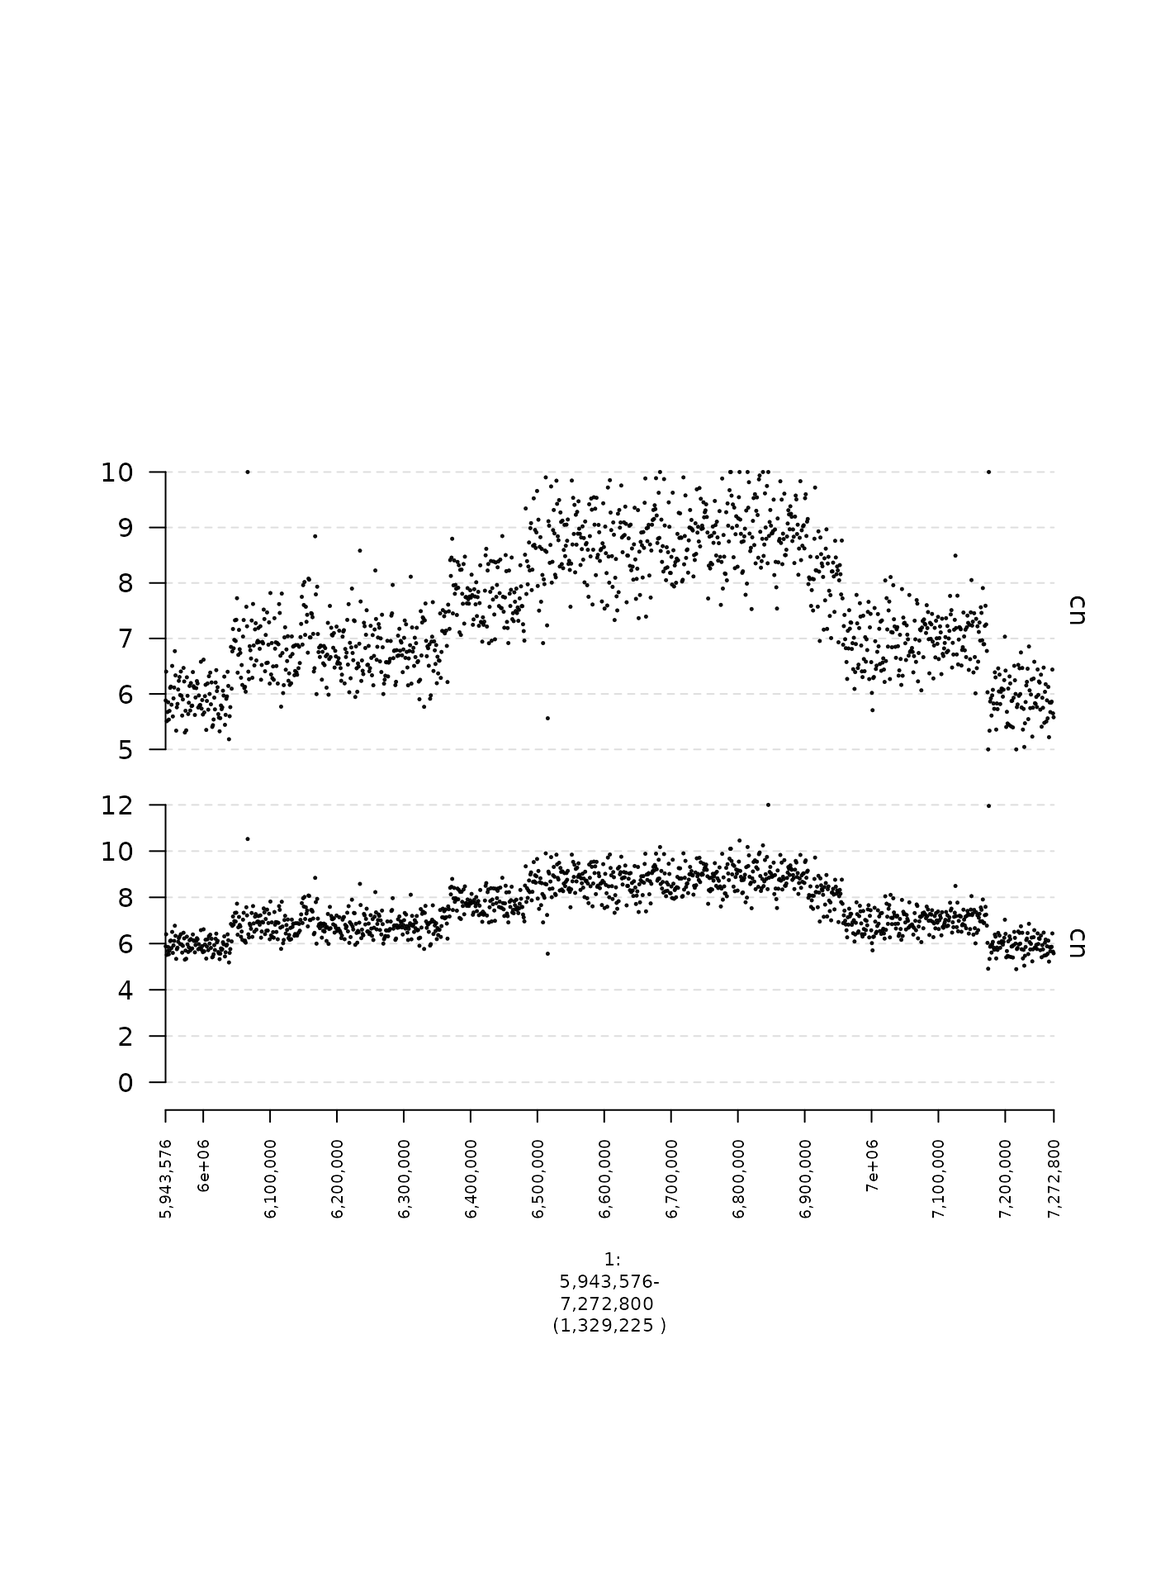
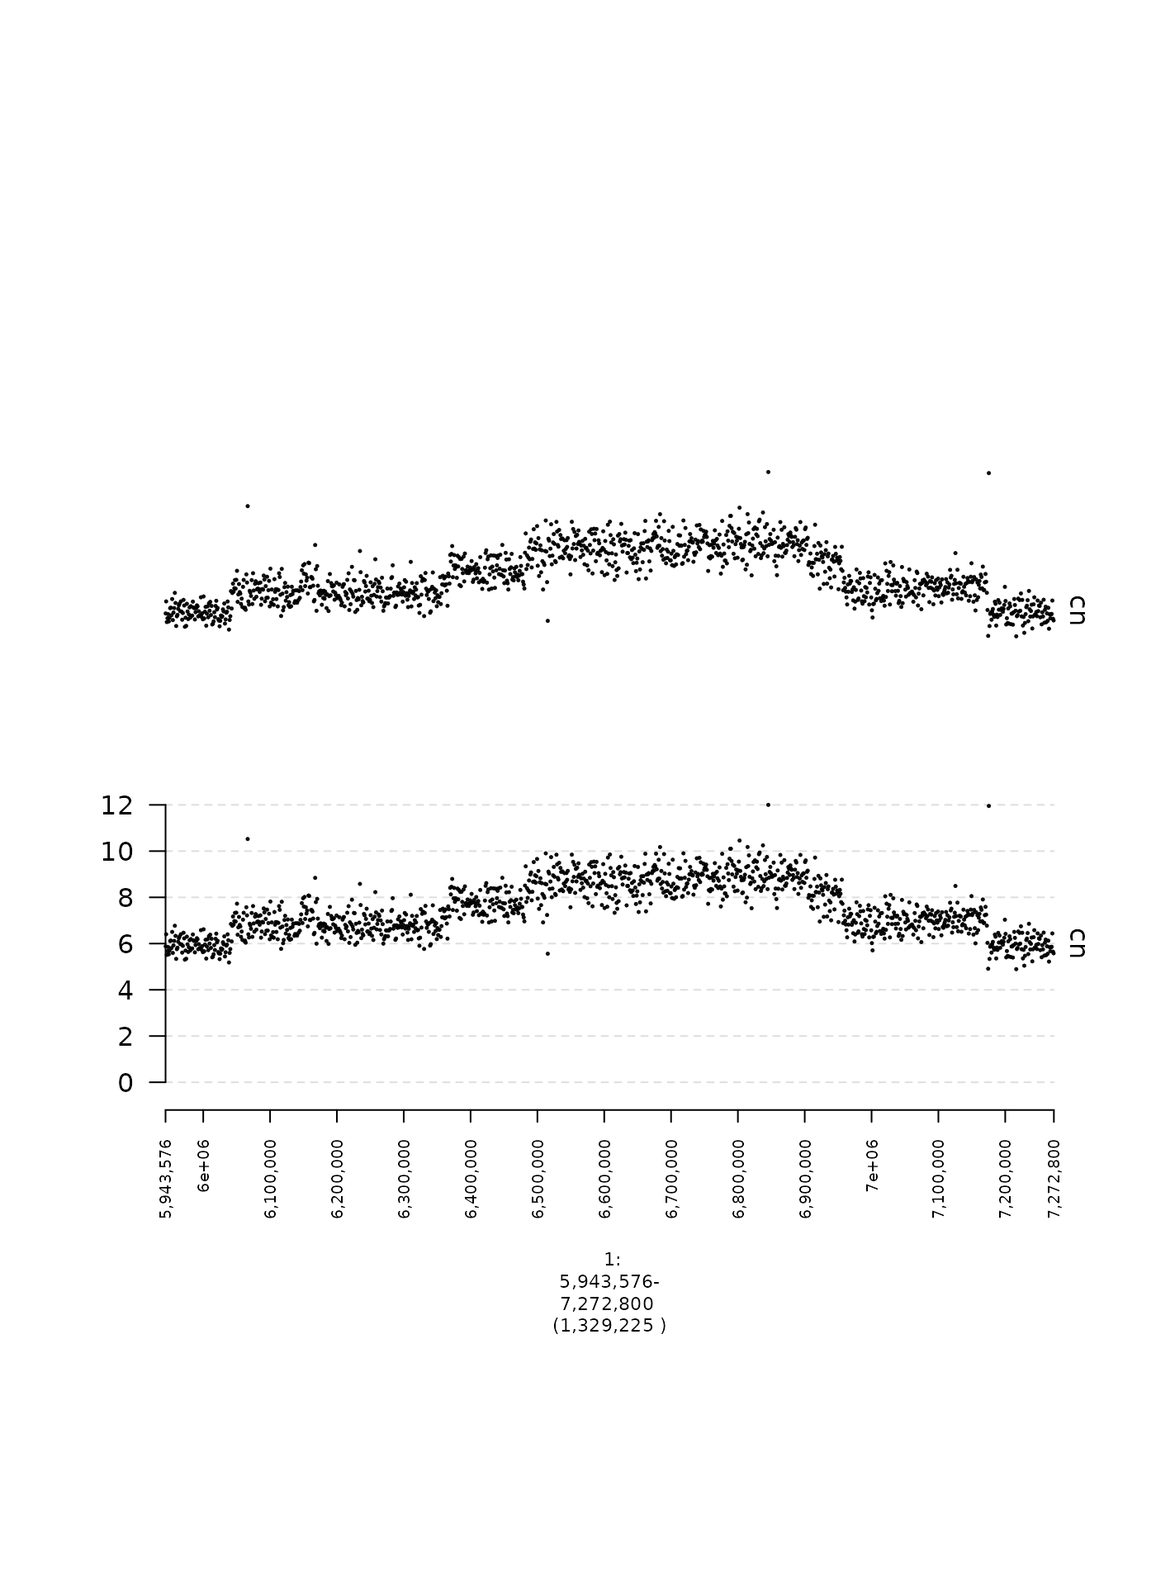
update params docs

Changed region(s): [[0.1229, 0.3125, 0.9214, 0.4688], [0.0921, 0.2812, 0.1229, 0.3125]]

diff --git a/docs/articles/gtrackparams.html b/docs/articles/gtrackparams.html
@@ -93,13 +93,31 @@
     
 <p>This is a (non-comprehensive) overview of <code>gTrack</code> parameters that are commonly modified from their default values.</p>
 <div class="section level2">
-<h2 id="axes">Axes<a class="anchor" aria-label="anchor" href="#axes"></a>
+<h2 id="axes-and-data">Axes and data<a class="anchor" aria-label="anchor" href="#axes-and-data"></a>
 </h2>
+<div class="section level3">
+<h3 id="y-coordinates-y-field">Y-coordinates (y.field)<a class="anchor" aria-label="anchor" href="#y-coordinates-y-field"></a>
+</h3>
+<p>The x-coordinate of <code>gTrack</code> data is always a genomic interval. The y-coordinate can be either unspecified, or supplied in a metadata column of the <code>GRanges</code> or <code>GRangesList</code>. The name of this metadata column can be specified by supplying a character string to argument for <code>y.field</code>.</p>
+<p>In the following example, we will plot two different metadata fields, one named <code>foreground</code> and one named <code>cn</code>.</p>
+<div class="sourceCode" id="cb1"><pre class="downlit sourceCode r">
+<code class="sourceCode R"><span><span class="va">coverage.gr</span> <span class="op">=</span> <span class="fu"><a href="https://rdrr.io/r/base/readRDS.html" class="external-link">readRDS</a></span><span class="op">(</span><span class="fu"><a href="https://rdrr.io/r/base/system.file.html" class="external-link">system.file</a></span><span class="op">(</span><span class="st">"extdata"</span>, <span class="st">"ovcar.subgraph.coverage.rds"</span>, package <span class="op">=</span> <span class="st">"gTrack"</span><span class="op">)</span><span class="op">)</span></span>
+<span></span>
+<span><span class="co">## read depth gTrack without name argument</span></span>
+<span><span class="va">coverage.cn.gt</span> <span class="op">=</span> <span class="fu"><a href="../reference/gTrack-class.html">gTrack</a></span><span class="op">(</span><span class="va">coverage.gr</span>, y.field <span class="op">=</span> <span class="st">"cn"</span>, circles <span class="op">=</span> <span class="cn">TRUE</span>, lwd.border <span class="op">=</span> <span class="fl">0.2</span>, y0 <span class="op">=</span> <span class="fl">0</span>, y1 <span class="op">=</span> <span class="fl">12</span><span class="op">)</span></span>
+<span></span>
+<span><span class="co">## read depth gTrack with name argument</span></span>
+<span><span class="va">coverage.foreground.gt</span> <span class="op">=</span> <span class="fu"><a href="../reference/gTrack-class.html">gTrack</a></span><span class="op">(</span><span class="va">coverage.gr</span>, y.field <span class="op">=</span> <span class="st">"foreground"</span>, circles <span class="op">=</span> <span class="cn">TRUE</span>, lwd.border <span class="op">=</span> <span class="fl">0.2</span>, y0 <span class="op">=</span> <span class="fl">0</span>, y1 <span class="op">=</span> <span class="fl">12</span><span class="op">)</span></span>
+<span></span>
+<span><span class="va">fp</span> <span class="op">=</span> <span class="fu">parse.gr</span><span class="op">(</span><span class="st">"1:6043576-7172800"</span><span class="op">)</span></span>
+<span><span class="fu"><a href="https://rdrr.io/r/graphics/plot.default.html" class="external-link">plot</a></span><span class="op">(</span><span class="fu"><a href="../reference/c-methods.html">c</a></span><span class="op">(</span><span class="va">coverage.cn.gt</span>, <span class="va">coverage.foreground.gt</span><span class="op">)</span>, <span class="va">fp</span> <span class="op">+</span> <span class="fl">1e5</span><span class="op">)</span></span></code></pre></div>
+<p><img src="gtrackparams_files/figure-html/unnamed-chunk-2-1.png" width="700"></p>
+</div>
 <div class="section level3">
 <h3 id="track-names-name">Track names (name)<a class="anchor" aria-label="anchor" href="#track-names-name"></a>
 </h3>
-<p>The <code>name</code> specifies the track label that is shown to the right of a subplot. Arguments must be character vectors. The default is an empty string, which creates an unlabeled plot. Below is an example of a scatter plot with and without a <code>name</code> argument.</p>
-<div class="sourceCode" id="cb1"><pre class="downlit sourceCode r">
+<p>The <code>name</code> specifies the track label that is shown to the right of a subplot. Arguments must be character vectors. The default behavior is to set <code>name</code> to an empty string if <code>y.field</code> is not specified, and otherwise to set <code>name</code> to the value passed to <code>y.field</code>. Below is an example of a scatter plot with and without a <code>name</code> argument.</p>
+<div class="sourceCode" id="cb2"><pre class="downlit sourceCode r">
 <code class="sourceCode R"><span><span class="va">coverage.gr</span> <span class="op">=</span> <span class="fu"><a href="https://rdrr.io/r/base/readRDS.html" class="external-link">readRDS</a></span><span class="op">(</span><span class="fu"><a href="https://rdrr.io/r/base/system.file.html" class="external-link">system.file</a></span><span class="op">(</span><span class="st">"extdata"</span>, <span class="st">"ovcar.subgraph.coverage.rds"</span>, package <span class="op">=</span> <span class="st">"gTrack"</span><span class="op">)</span><span class="op">)</span></span>
 <span></span>
 <span><span class="co">## read depth gTrack without name argument</span></span>
@@ -110,13 +128,31 @@
 <span></span>
 <span><span class="va">fp</span> <span class="op">=</span> <span class="fu">parse.gr</span><span class="op">(</span><span class="st">"1:6043576-7172800"</span><span class="op">)</span></span>
 <span><span class="fu"><a href="https://rdrr.io/r/graphics/plot.default.html" class="external-link">plot</a></span><span class="op">(</span><span class="fu"><a href="../reference/c-methods.html">c</a></span><span class="op">(</span><span class="va">coverage.gt</span>, <span class="va">coverage.name.gt</span><span class="op">)</span>, <span class="va">fp</span> <span class="op">+</span> <span class="fl">1e5</span><span class="op">)</span></span></code></pre></div>
-<p><img src="gtrackparams_files/figure-html/unnamed-chunk-2-1.png" width="700"></p>
+<p><img src="gtrackparams_files/figure-html/unnamed-chunk-3-1.png" width="700"></p>
+</div>
+<div class="section level3">
+<h3 id="y-axis-label-yaxis">Y-axis label (yaxis)<a class="anchor" aria-label="anchor" href="#y-axis-label-yaxis"></a>
+</h3>
+<p>The label of the Y-axis on the left side of a <code>gTrack</code> can be toggled on or off using the logical parameter <code>yaxis</code>, which has default value <code>TRUE</code> if <code>y.field</code> is specified and <code>FALSE</code> if not.</p>
+<p>Here is an example where <code>yaxis</code> is deliberately set as <code>FALSE</code> despite suppling a value to <code>y.field</code>.</p>
+<div class="sourceCode" id="cb3"><pre class="downlit sourceCode r">
+<code class="sourceCode R"><span><span class="va">coverage.gr</span> <span class="op">=</span> <span class="fu"><a href="https://rdrr.io/r/base/readRDS.html" class="external-link">readRDS</a></span><span class="op">(</span><span class="fu"><a href="https://rdrr.io/r/base/system.file.html" class="external-link">system.file</a></span><span class="op">(</span><span class="st">"extdata"</span>, <span class="st">"ovcar.subgraph.coverage.rds"</span>, package <span class="op">=</span> <span class="st">"gTrack"</span><span class="op">)</span><span class="op">)</span></span>
+<span></span>
+<span><span class="co">## read depth gTrack</span></span>
+<span><span class="va">coverage.gt</span> <span class="op">=</span> <span class="fu"><a href="../reference/gTrack-class.html">gTrack</a></span><span class="op">(</span><span class="va">coverage.gr</span>, y.field <span class="op">=</span> <span class="st">"cn"</span>, circles <span class="op">=</span> <span class="cn">TRUE</span>, lwd.border <span class="op">=</span> <span class="fl">0.2</span>, y0 <span class="op">=</span> <span class="fl">0</span>, y1 <span class="op">=</span> <span class="fl">12</span><span class="op">)</span></span>
+<span></span>
+<span><span class="co">## read depth gTrack without Y-axis label</span></span>
+<span><span class="va">coverage.noy.gt</span> <span class="op">=</span> <span class="fu"><a href="../reference/gTrack-class.html">gTrack</a></span><span class="op">(</span><span class="va">coverage.gr</span>, y.field <span class="op">=</span> <span class="st">"cn"</span>, circles <span class="op">=</span> <span class="cn">TRUE</span>, lwd.border <span class="op">=</span> <span class="fl">0.2</span>, y0 <span class="op">=</span> <span class="fl">0</span>, y1 <span class="op">=</span> <span class="fl">12</span>, yaxis <span class="op">=</span> <span class="cn">FALSE</span><span class="op">)</span></span>
+<span></span>
+<span><span class="va">fp</span> <span class="op">=</span> <span class="fu">parse.gr</span><span class="op">(</span><span class="st">"1:6043576-7172800"</span><span class="op">)</span></span>
+<span><span class="fu"><a href="https://rdrr.io/r/graphics/plot.default.html" class="external-link">plot</a></span><span class="op">(</span><span class="fu"><a href="../reference/c-methods.html">c</a></span><span class="op">(</span><span class="va">coverage.gt</span>, <span class="va">coverage.noy.gt</span><span class="op">)</span>, <span class="va">fp</span> <span class="op">+</span> <span class="fl">1e5</span><span class="op">)</span></span></code></pre></div>
+<p><img src="gtrackparams_files/figure-html/unnamed-chunk-4-1.png" width="700"></p>
 </div>
 <div class="section level3">
 <h3 id="quantile-based-y-axis-cutoffs-y-quantile">Quantile-based Y-axis cutoffs (y.quantile)<a class="anchor" aria-label="anchor" href="#quantile-based-y-axis-cutoffs-y-quantile"></a>
 </h3>
 <p>By default, the minimum and maximum y-axis values are determined by the values of the 1st and 99th percentiles of the data to be plotted. This percentile can be changed by adjusting <code>y.quantile</code> in order to plot a wider or narrower range of points. The example below compares two different values of <code>y.quantile</code>.</p>
-<div class="sourceCode" id="cb2"><pre class="downlit sourceCode r">
+<div class="sourceCode" id="cb4"><pre class="downlit sourceCode r">
 <code class="sourceCode R"><span><span class="va">coverage.gr</span> <span class="op">=</span> <span class="fu"><a href="https://rdrr.io/r/base/readRDS.html" class="external-link">readRDS</a></span><span class="op">(</span><span class="fu"><a href="https://rdrr.io/r/base/system.file.html" class="external-link">system.file</a></span><span class="op">(</span><span class="st">"extdata"</span>, <span class="st">"ovcar.subgraph.coverage.rds"</span>, package <span class="op">=</span> <span class="st">"gTrack"</span><span class="op">)</span><span class="op">)</span></span>
 <span></span>
 <span><span class="co">## plot points between 1st and 99th percentile</span></span>
@@ -127,13 +163,13 @@
 <span></span>
 <span><span class="va">fp</span> <span class="op">=</span> <span class="fu">parse.gr</span><span class="op">(</span><span class="st">"1:6043576-7172800"</span><span class="op">)</span></span>
 <span><span class="fu"><a href="https://rdrr.io/r/graphics/plot.default.html" class="external-link">plot</a></span><span class="op">(</span><span class="fu"><a href="../reference/c-methods.html">c</a></span><span class="op">(</span><span class="va">coverage.1.gt</span>, <span class="va">coverage.20.gt</span><span class="op">)</span>, <span class="va">fp</span> <span class="op">+</span> <span class="fl">1e5</span><span class="op">)</span></span></code></pre></div>
-<p><img src="gtrackparams_files/figure-html/unnamed-chunk-3-1.png" width="700"></p>
+<p><img src="gtrackparams_files/figure-html/unnamed-chunk-5-1.png" width="700"></p>
 </div>
 <div class="section level3">
 <h3 id="specifying-y-axis-cutoffs-y0-and-y1">Specifying Y-axis cutoffs (y0 and y1)<a class="anchor" aria-label="anchor" href="#specifying-y-axis-cutoffs-y0-and-y1"></a>
 </h3>
 <p>The minimum and maximum y-axis values can also be specified directly with <code>y0</code> and <code>y1</code> respectively, which must be numeric values. Below is an example of the same data with two different settings for <code>y0</code> and <code>y1</code>.</p>
-<div class="sourceCode" id="cb3"><pre class="downlit sourceCode r">
+<div class="sourceCode" id="cb5"><pre class="downlit sourceCode r">
 <code class="sourceCode R"><span><span class="va">coverage.gr</span> <span class="op">=</span> <span class="fu"><a href="https://rdrr.io/r/base/readRDS.html" class="external-link">readRDS</a></span><span class="op">(</span><span class="fu"><a href="https://rdrr.io/r/base/system.file.html" class="external-link">system.file</a></span><span class="op">(</span><span class="st">"extdata"</span>, <span class="st">"ovcar.subgraph.coverage.rds"</span>, package <span class="op">=</span> <span class="st">"gTrack"</span><span class="op">)</span><span class="op">)</span></span>
 <span></span>
 <span><span class="co">## plot points between 0 and 12</span></span>
@@ -144,15 +180,24 @@
 <span></span>
 <span><span class="va">fp</span> <span class="op">=</span> <span class="fu">parse.gr</span><span class="op">(</span><span class="st">"1:6043576-7172800"</span><span class="op">)</span></span>
 <span><span class="fu"><a href="https://rdrr.io/r/graphics/plot.default.html" class="external-link">plot</a></span><span class="op">(</span><span class="fu"><a href="../reference/c-methods.html">c</a></span><span class="op">(</span><span class="va">coverage.wide.gt</span>, <span class="va">coverage.narrow.gt</span><span class="op">)</span>, <span class="va">fp</span> <span class="op">+</span> <span class="fl">1e5</span><span class="op">)</span></span></code></pre></div>
-<p><img src="gtrackparams_files/figure-html/unnamed-chunk-4-1.png" width="700"></p>
+<p><img src="gtrackparams_files/figure-html/unnamed-chunk-6-1.png" width="700"></p>
 </div>
 <div class="section level3">
 <h3 id="unbounded-y-axes-y-cap">Unbounded Y-axes (y.cap)<a class="anchor" aria-label="anchor" href="#unbounded-y-axes-y-cap"></a>
 </h3>
-</div>
-<div class="section level3">
-<h3 id="y-axis-labels-yaxis">Y-axis labels (yaxis)<a class="anchor" aria-label="anchor" href="#y-axis-labels-yaxis"></a>
-</h3>
+<p>Sometimes we may not want to specify limits on the y-coordinates at all, but rather ensure all points are plotted, regardless of how big or small they may be. This can be done by setting <code>y.cap = FALSE</code> as shown in the following example.</p>
+<div class="sourceCode" id="cb6"><pre class="downlit sourceCode r">
+<code class="sourceCode R"><span><span class="va">coverage.gr</span> <span class="op">=</span> <span class="fu"><a href="https://rdrr.io/r/base/readRDS.html" class="external-link">readRDS</a></span><span class="op">(</span><span class="fu"><a href="https://rdrr.io/r/base/system.file.html" class="external-link">system.file</a></span><span class="op">(</span><span class="st">"extdata"</span>, <span class="st">"ovcar.subgraph.coverage.rds"</span>, package <span class="op">=</span> <span class="st">"gTrack"</span><span class="op">)</span><span class="op">)</span></span>
+<span></span>
+<span><span class="co">## plot points 1st and 99th percentiles (default)</span></span>
+<span><span class="va">coverage.gt</span> <span class="op">=</span> <span class="fu"><a href="../reference/gTrack-class.html">gTrack</a></span><span class="op">(</span><span class="va">coverage.gr</span>, y.field <span class="op">=</span> <span class="st">"cn"</span>, circles <span class="op">=</span> <span class="cn">TRUE</span>, lwd.border <span class="op">=</span> <span class="fl">0.2</span><span class="op">)</span></span>
+<span></span>
+<span><span class="co">## no limits on y</span></span>
+<span><span class="va">coverage.all.gt</span> <span class="op">=</span> <span class="fu"><a href="../reference/gTrack-class.html">gTrack</a></span><span class="op">(</span><span class="va">coverage.gr</span>, y.field <span class="op">=</span> <span class="st">"cn"</span>, circles <span class="op">=</span> <span class="cn">TRUE</span>, lwd.border <span class="op">=</span> <span class="fl">0.2</span>, y.cap <span class="op">=</span> <span class="cn">FALSE</span><span class="op">)</span></span>
+<span></span>
+<span><span class="va">fp</span> <span class="op">=</span> <span class="fu">parse.gr</span><span class="op">(</span><span class="st">"1:6043576-7172800"</span><span class="op">)</span></span>
+<span><span class="fu"><a href="https://rdrr.io/r/graphics/plot.default.html" class="external-link">plot</a></span><span class="op">(</span><span class="fu"><a href="../reference/c-methods.html">c</a></span><span class="op">(</span><span class="va">coverage.gt</span>, <span class="va">coverage.all.gt</span><span class="op">)</span>, <span class="va">fp</span> <span class="op">+</span> <span class="fl">1e5</span><span class="op">)</span></span></code></pre></div>
+<p><img src="gtrackparams_files/figure-html/unnamed-chunk-7-1.png" width="700"></p>
 </div>
 </div>
 <div class="section level2">
@@ -161,10 +206,37 @@
 <div class="section level3">
 <h3 id="stacking-adjacent-ranges-stack-gap">Stacking adjacent ranges (stack.gap)<a class="anchor" aria-label="anchor" href="#stacking-adjacent-ranges-stack-gap"></a>
 </h3>
+<p>Sometimes closely spaced genomic intervals can be difficult to discern. If no y-coordinate is specified, sometimes it is helpful to stagger these intervals vertically to make them more visually distinct. This can be done by setting the parameter <code>stack.gap</code> to some numeric value. This will vertically stack adjacent intervals separated by a genomic distance (in base pairs) below that value.</p>
+<div class="sourceCode" id="cb7"><pre class="downlit sourceCode r">
+<code class="sourceCode R"><span><span class="co">## create tiled genomic intervals</span></span>
+<span><span class="va">win</span> <span class="op">=</span> <span class="fu">GRanges</span><span class="op">(</span>seqnames <span class="op">=</span> <span class="st">"1"</span>, ranges <span class="op">=</span> <span class="fu">IRanges</span><span class="op">(</span>start <span class="op">=</span> <span class="fl">1</span>, width <span class="op">=</span> <span class="fl">1e5</span><span class="op">)</span><span class="op">)</span></span>
+<span><span class="va">tiles</span> <span class="op">=</span> <span class="fu">gUtils</span><span class="fu">::</span><span class="fu"><a href="https://rdrr.io/pkg/gUtils/man/gr.tile.html" class="external-link">gr.tile</a></span><span class="op">(</span><span class="va">win</span>, width <span class="op">=</span> <span class="fl">1e4</span><span class="op">)</span></span>
+<span></span>
+<span><span class="co">## gTrack without vertical staggering</span></span>
+<span><span class="va">tiles.gt</span> <span class="op">=</span> <span class="fu"><a href="../reference/gTrack-class.html">gTrack</a></span><span class="op">(</span><span class="va">tiles</span><span class="op">)</span></span>
+<span></span>
+<span><span class="co">## stack intervals within 1 Kbp of each other</span></span>
+<span><span class="va">tiles.stack.gt</span> <span class="op">=</span> <span class="fu"><a href="../reference/gTrack-class.html">gTrack</a></span><span class="op">(</span><span class="va">tiles</span>, stack.gap <span class="op">=</span> <span class="fl">1000</span><span class="op">)</span></span>
+<span></span>
+<span><span class="fu"><a href="https://rdrr.io/r/graphics/plot.default.html" class="external-link">plot</a></span><span class="op">(</span><span class="fu"><a href="../reference/c-methods.html">c</a></span><span class="op">(</span><span class="va">tiles.gt</span>, <span class="va">tiles.stack.gt</span><span class="op">)</span>, <span class="va">win</span><span class="op">)</span></span></code></pre></div>
+<p><img src="gtrackparams_files/figure-html/unnamed-chunk-8-1.png" width="700"></p>
 </div>
 <div class="section level3">
 <h3 id="number-of-plotted-ranges-max-ranges">Number of plotted ranges (max.ranges)<a class="anchor" aria-label="anchor" href="#number-of-plotted-ranges-max-ranges"></a>
 </h3>
+<p>A <code>gTrack</code> with a huge number of genomic intervals can take a long time to plot, and if there are many overlapping points it doesn’t make sense to include all of them. To downsample points, you can set <code>max.ranges</code> to some number, which will only plot that number of randomly selected points.</p>
+<div class="sourceCode" id="cb8"><pre class="downlit sourceCode r">
+<code class="sourceCode R"><span><span class="va">coverage.gr</span> <span class="op">=</span> <span class="fu"><a href="https://rdrr.io/r/base/readRDS.html" class="external-link">readRDS</a></span><span class="op">(</span><span class="fu"><a href="https://rdrr.io/r/base/system.file.html" class="external-link">system.file</a></span><span class="op">(</span><span class="st">"extdata"</span>, <span class="st">"ovcar.subgraph.coverage.rds"</span>, package <span class="op">=</span> <span class="st">"gTrack"</span><span class="op">)</span><span class="op">)</span></span>
+<span></span>
+<span><span class="co">## plot everything</span></span>
+<span><span class="va">coverage.gt</span> <span class="op">=</span> <span class="fu"><a href="../reference/gTrack-class.html">gTrack</a></span><span class="op">(</span><span class="va">coverage.gr</span>, y.field <span class="op">=</span> <span class="st">"cn"</span>, circles <span class="op">=</span> <span class="cn">TRUE</span>, lwd.border <span class="op">=</span> <span class="fl">0.2</span><span class="op">)</span></span>
+<span></span>
+<span><span class="co">## only plot 50 points</span></span>
+<span><span class="va">coverage.downsample.gt</span> <span class="op">=</span> <span class="fu"><a href="../reference/gTrack-class.html">gTrack</a></span><span class="op">(</span><span class="va">coverage.gr</span>, y.field <span class="op">=</span> <span class="st">"cn"</span>, circles <span class="op">=</span> <span class="cn">TRUE</span>, lwd.border <span class="op">=</span> <span class="fl">0.2</span>, max.ranges <span class="op">=</span> <span class="fl">50</span><span class="op">)</span></span>
+<span></span>
+<span><span class="va">fp</span> <span class="op">=</span> <span class="fu">parse.gr</span><span class="op">(</span><span class="st">"1:6043576-7172800"</span><span class="op">)</span></span>
+<span><span class="fu"><a href="https://rdrr.io/r/graphics/plot.default.html" class="external-link">plot</a></span><span class="op">(</span><span class="fu"><a href="../reference/c-methods.html">c</a></span><span class="op">(</span><span class="va">coverage.gt</span>, <span class="va">coverage.downsample.gt</span><span class="op">)</span>, <span class="va">fp</span> <span class="op">+</span> <span class="fl">1e5</span><span class="op">)</span></span></code></pre></div>
+<p><img src="gtrackparams_files/figure-html/unnamed-chunk-9-1.png" width="700"></p>
 </div>
 </div>
 <div class="section level2">
